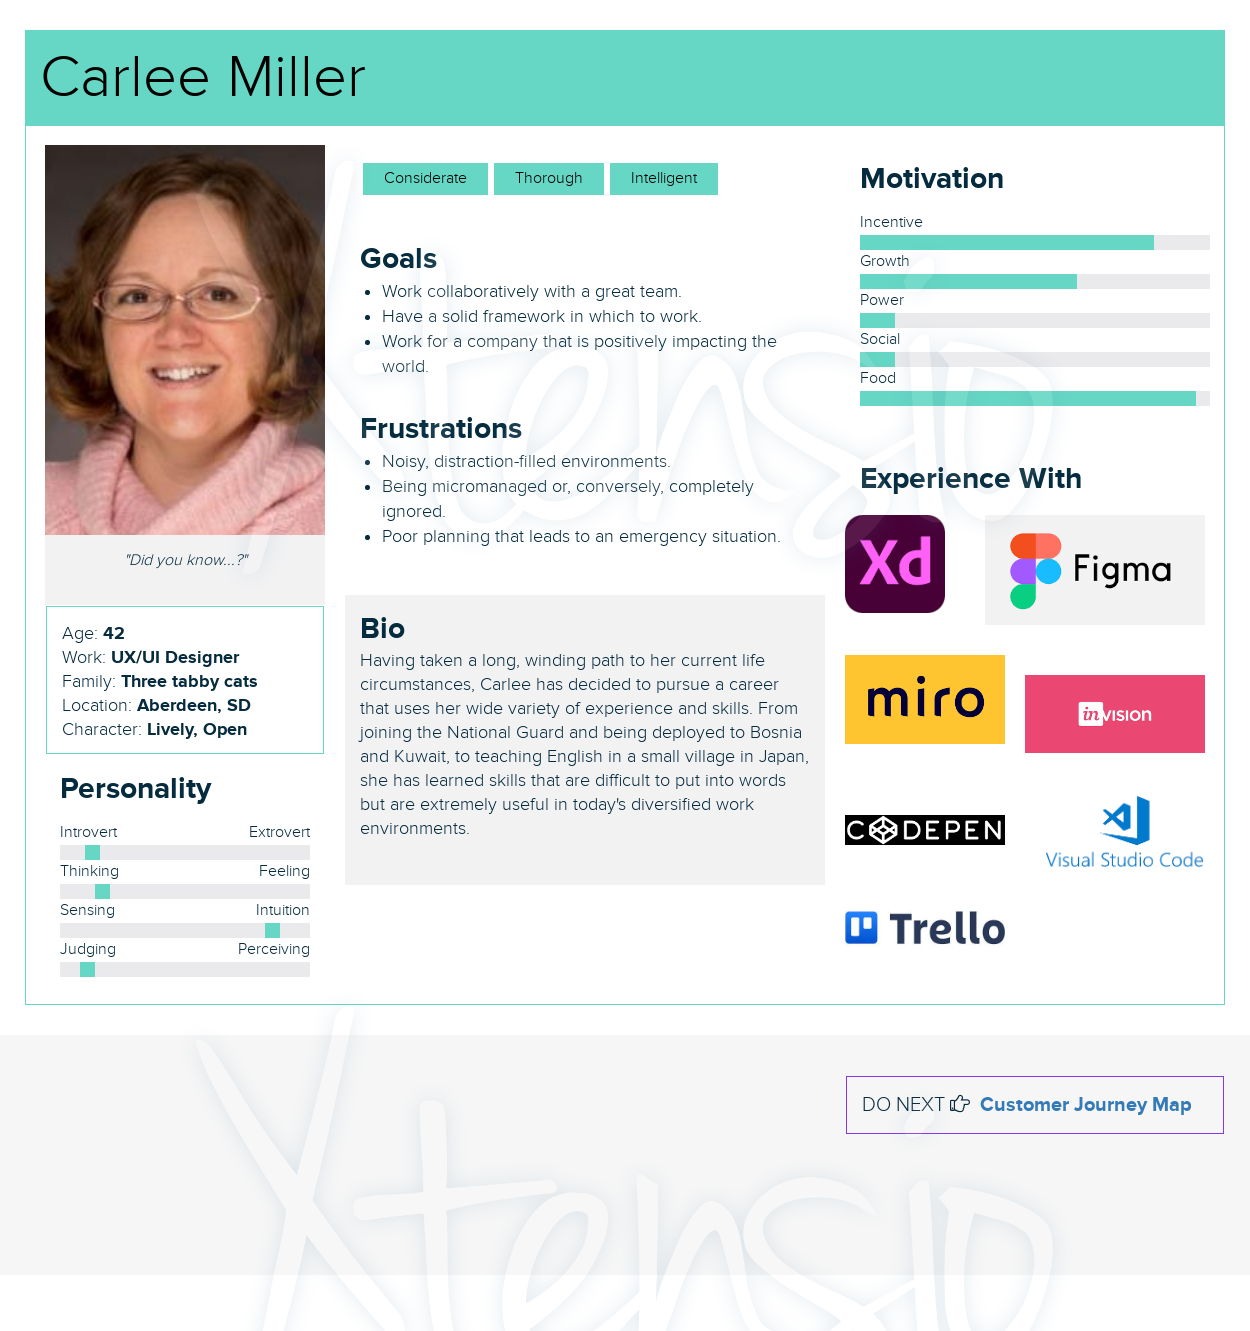
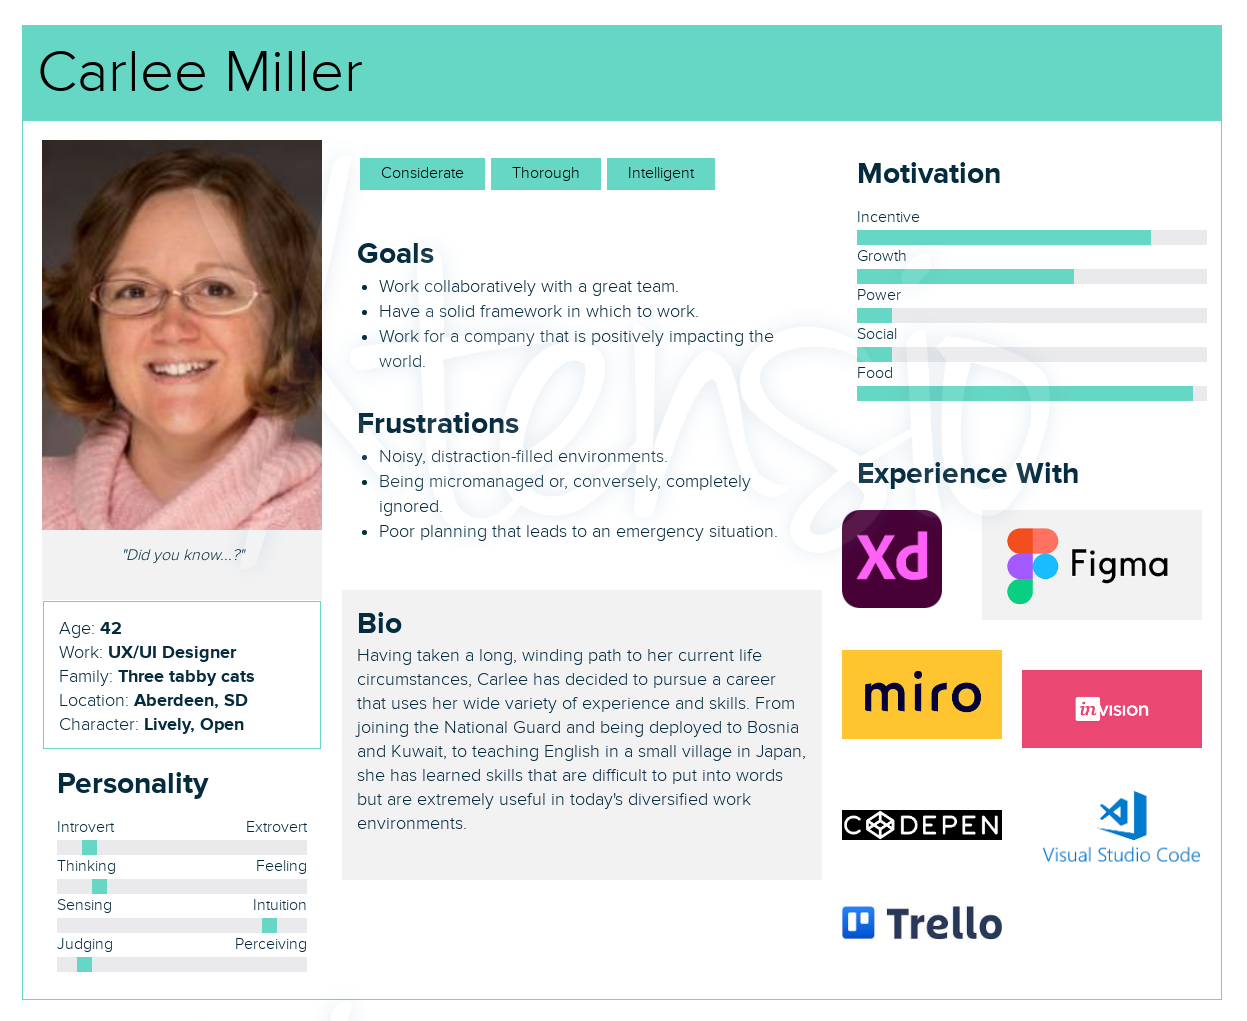
today's work

diff --git a/index.html b/index.html
@@ -8,18 +8,44 @@
   <body>
     <header class="navigation">
       <div class="inline-block logo">
-        <div style="text-align: left">
-          <img src="images/logo.png"
-            width="200px"
-            height="200px" 
-            alt="Dark Pink and Dark Blue yin & yan represented by arranged dots on mint green background with the text Carlee Miller, User Experience Collaborative Creator beneath it.">
-        </div>
         <div>
           <ul class="nav">
-            <li>About Me</li>
-            <li>Work</li>
-            <li>Resume & Skills</li>
-            <li>Contact</li>
+            <li>
+              <img src="images/logo.png"
+                width="200px"
+                height="200px" 
+                alt="Dark Pink and Dark Blue yin & yan represented by arranged dots on mint green background with the text Carlee Miller, User Experience Collaborative Creator beneath it.">
+            </li>
+            <li>
+              <img src="images/about-me.png"
+              height="100px"
+              width="100px">
+            </li>
+            <li>
+              <img src="images/WORK.png"
+              height="100px"
+              width="100px">
+            </li>
+            <li>
+              <img src="images/RESUME_SKILLS.png"
+              height="100px"
+              width="100px">
+            </li>
+            <li>
+              <img src="images/CONTACT.png"
+              height="100px"
+              width="100px">
+            </li>
+            <li>
+              <img src="Images/511152_linkedin_media_pink_round_social_icon.png"
+               width="100px"
+               height="100px">
+            </li>
+            <li>
+              <img src="Images/511146_behance_media_pink_round_social_icon.png"
+              width="100px"
+              height="100px">
+            </li>
           </ul>
         </div>
       </div>
@@ -27,30 +53,23 @@
     <!--HeroImg-->
     <div class="heroImg">
       <div class="content">
-        <img src="Images\main_image_star-forming_region_carina_nircam_final-5mb.jpg">
-        <p>Brand Statement</p>
+        <img src="images/brand_statement.png"
+        height="500px"
+        width="100%">
       </div>               
     </div>
     <!--Main Body-->
     <!--  My UX Skills section coded using CSS flex -->
-    <div class="mySkills">
-      <h1>My UX Skills</h1>
-      <div class="flexContainer">
-        <div>
-          <img src="">
-          <h3>Accessibility</h3>
-          <p></p>
-        </div>
-        <div>
-          <img src="">
-          <h3>User Research & Testing</h3>
-          <p></p>
-        </div>
-        <div>
-          <img src="">
-          <h3>Front End Development</h3>
-          <p></p>
-        </div>
+    <div class="flexContainer">
+      <div>
+        <img src="images/my_skills.png"
+        height="600px"
+        width="900px">
+      </div>
+      <div>
+        <img src="images/coding_skills.png"
+        height="600px"
+        width="900px">
       </div>
     </div>
     <!-- My Work Section Constructed using CSS Grid -->
@@ -101,27 +120,15 @@
     <div class="AboutMe">
       <h1>ABOUT ME</h1>
       <div class="flexContainer">
-        <img src="images/Profile_Photo.png" 
-          width="200px" 
-          height="200px">
+        <img src="images/CMUserPersona.png">
       </div>
     </div>   
     
     <!--footer--> 
     <footer>
       <ul>
-        <li>
-          <img src="Images/511146_behance_media_pink_round_social_icon.png"
-            width="50px"
-            height="50px">
-          <p>Behance</p>
-        </li>
-        <li>
-          <img src="Images/511152_linkedin_media_pink_round_social_icon.png"
-          width="50px"
-          height="50px">
-          <p>LinkedIn</p>
-        </li>
+        <li>Behance</li>
+        <li>LinkedIn</li>
         <li>About Me</li>
         <li>Work</li>
         <li>Resume & Skills</li>

diff --git a/css/style.css b/css/style.css
@@ -22,34 +22,16 @@ body {
 .nav li {
     display: inline-block;
     font-size: 20px;
-    padding: 50px;
+    padding: 25px;
 }
-.inline-block logo {
-    width: 23%;
-    padding: 5%;
-    margin: 0%; 
-} 
 .heroImg {
-    height: 600px;
     padding: 100px 15px;
-    background-size: cover;
-    background-repeat: no-repeat;
     background-color: #ebebeb;
-}
-.content {
-    max-width: 300px;
-    margin: 0 auto;  
-    padding: 50px;
-    background-color: #FFFFFF;
-    text-align: center; 
-}
-.mySkills h1 {
-    text-align: center;
 }
 .flexContainer  {
     display: flex;
-    flex-direction: row;
-    justify-content: space-around;
+    flex-direction: column;
+    justify-content: flex-start;
 }
 .flexContainer div {
     width: 33%;
